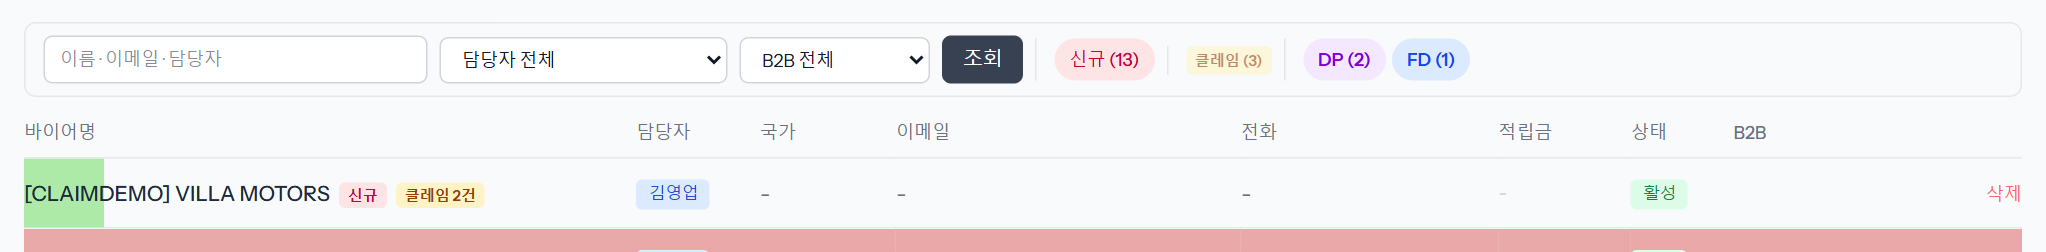
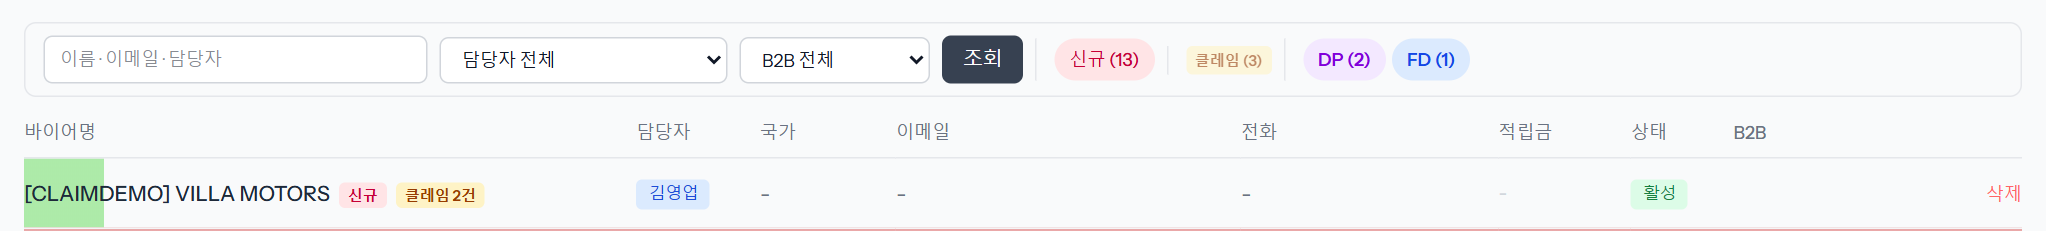
style(claims): 판매탭 클레임 칸 옆 작은 글씨를 한 줄에 들어가게 줄임 — 전체 설명은 마우스 호버 (jin 11-20)
Claude-Session: https://claude.ai/code/session_01C7ygYboCgJMa4kZSBSuMvE

diff --git a/resources/guides/buyer-claim/index.html b/resources/guides/buyer-claim/index.html
@@ -28,7 +28,7 @@
     <div class="gd-n">3단계</div>
     <h3>바이어가 클레임만큼 덜 보낸 차의 판매 탭 → 「클레임 사용」에 금액</h3>
     <p>예: 클레임 400 유로가 인정된 바이어가 다음 차 대금 10,000 유로 중 9,600 만 보냈습니다. 그 차에 미수 400 이 남습니다. 차량 관리에서 그 차를 열고 판매 탭의 「클레임 사용」에 400 을 넣고 [수정 저장]을 누릅니다.</p>
-    <img src="03.png" alt="차량 판매 탭 — 적립금 사용 옆 「클레임 누적금 EUR 500.00」(이 바이어의 인정된 클레임 중 아직 안 쓴 돈), 「클레임 사용」 칸에 400 입력">
+    <img src="03.png" alt="차량 판매 탭 — 적립금 사용 옆 「클레임 누적금 (안 쓴 금액) EUR 500.00」, 「클레임 사용 (이 차 합계)」 칸에 400 입력">
     <ul>
         <li><strong>클레임 누적금</strong> = 그 바이어의 인정된 클레임 중 아직 안 쓴 돈(그 차와 같은 통화만). 누적금도 쓴 금액도 없는 차에는 두 칸이 보이지 않습니다.</li>
         <li><strong>클레임 사용</strong> = 이 차에 쓴 <strong>합계</strong>입니다. 옆의 「적립금 사용」처럼 더하는 칸이 아닙니다 — 400 을 300 으로 고치면 300 만 쓴 것이 되고, 0 으로 저장하면 전부 되돌아갑니다.</li>

diff --git a/resources/views/livewire/erp/vehicles/index.blade.php b/resources/views/livewire/erp/vehicles/index.blade.php
@@ -10869,11 +10869,11 @@ function vehicleColumnsToggle(columns, serverKnows) {
                     @endphp
                     @if($claimBalance > 0 || $claimUsedNow > 0)
                         <div data-claim-balance>
-                            <label class="label-base">{{ __('vehicle.field.claim_balance') }} <span class="text-[10px] text-gray-400">{{ __('vehicle.panel.claim_balance_note') }}</span></label>
+                            <label class="label-base whitespace-nowrap" title="{{ __('vehicle.panel.claim_balance_title') }}">{{ __('vehicle.field.claim_balance') }} <span class="text-[10px] text-gray-400">{{ __('vehicle.panel.claim_balance_note') }}</span></label>
                             <div class="input-base bg-gray-100 text-gray-600">{{ $currency }} {{ number_format($claimBalance, 2) }}</div>
                         </div>
                         <div data-claim-use>
-                            <label class="label-base">{{ __('vehicle.field.claim_used') }} <span class="text-[10px] text-gray-400">{{ __('vehicle.panel.claim_used_note') }}</span></label>
+                            <label class="label-base whitespace-nowrap" title="{{ __('vehicle.panel.claim_used_title') }}">{{ __('vehicle.field.claim_used') }} <span class="text-[10px] text-gray-400">{{ __('vehicle.panel.claim_used_note') }}</span></label>
                             <input wire:model="claim_used_str" type="text" data-money class="input-base" placeholder="0" />
                             @error('claim_used_str') <p class="mt-1 text-xs text-red-500">{{ $message }}</p> @enderror
                         </div>

diff --git a/lang/ko/vehicle.php b/lang/ko/vehicle.php
@@ -473,8 +473,10 @@ return [
         'savings_deposit_note' => '(이번에 쌓을 금액 · 저장 후 비워짐)',
         // 💳 적립금 사용 1회성 (jin 2026-10-15)
         'savings_used_note' => '(이번에 쓸 금액 · 저장 후 비워짐)',
-        'claim_balance_note' => '(이 바이어의 인정된 클레임 중 아직 안 쓴 돈)',
-        'claim_used_note' => '(이 차에 쓴 합계 · 0 으로 저장하면 되돌림)',
+        'claim_balance_note' => '(안 쓴 금액)',
+        'claim_balance_title' => '이 바이어의 인정된 클레임 중 아직 안 쓴 돈(이 차와 같은 통화)',
+        'claim_used_note' => '(이 차 합계)',
+        'claim_used_title' => '이 차에 쓴 합계입니다(더하는 칸이 아닙니다). 0 으로 저장하면 되돌아갑니다.',
         'non_cash_title' => '입금 외 정리',
         'non_cash_link' => '채권관리',
         'non_cash_hint' => '— 채권관리에서 입금 행 밖으로 정리된 것. 잔금 행에는 안 섞입니다(실입금·정산환율 기준). 입력은 채권관리·적립금 칸에서.',

diff --git a/lang/en/vehicle.php b/lang/en/vehicle.php
@@ -460,8 +460,10 @@ return [
         'savings_cash_short' => 'Savings not recorded: :msg Savings can only come from remaining cash (check the cash tab).',
         'savings_deposit_note' => '(accumulates on save, resets)',
         'savings_used_note' => '(amount to use now - cleared after save)',
-        'claim_balance_note' => '(accepted claims of this buyer not used yet)',
-        'claim_used_note' => '(total used on this vehicle - save 0 to undo)',
+        'claim_balance_note' => '(unused)',
+        'claim_balance_title' => 'Accepted claims of this buyer not used yet (same currency as this vehicle)',
+        'claim_used_note' => '(total here)',
+        'claim_used_title' => 'Total used on this vehicle (not an add-on field). Save 0 to undo.',
         'non_cash_title' => 'Settled without cash',
         'non_cash_link' => 'Receivables',
         'non_cash_hint' => '- not mixed into the payment rows (they are the basis for cash received and the settlement rate). Enter via Receivables or the savings field.',
